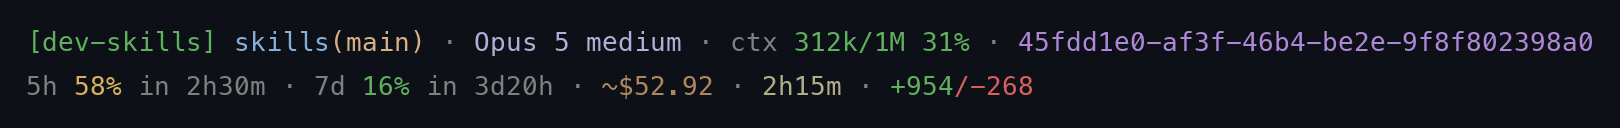
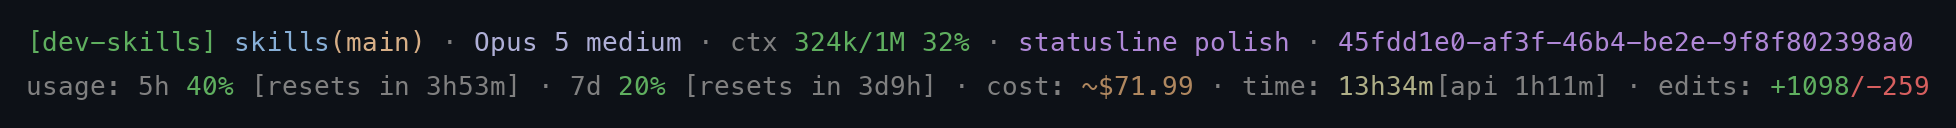
docs: refresh the screenshot, and make regenerating it a command
The image and both alt texts still showed the pre-label line two. Rather than
redoing the ad-hoc render each time the format shifts, scripts/render-statusline.py
now draws it from the script's real output and prints the transcription the alt
text should carry; @REPO@ in its payload becomes the checkout, so the image shows
a real directory and branch.

Also: the segment table listed usage: last while it renders first, one paragraph
still said parenthesised after the brackets landed, and a trailing paragraph
restated the cost row above it.

Changed region(s): [[0.0, 0.2188, 0.9877, 0.4062], [0.0, 0.5938, 0.9877, 0.7812]]

diff --git a/index.html b/index.html
@@ -149,8 +149,8 @@ dev-implement-plan phases → dev-tdd (test-first), dev-e2e-testing, dev-smoke-t
 <section id="statusline">
   <h2>Status line</h2>
   <p class="sub">Repo, model and context on one line; what the session has cost you on the next.</p>
-  <img class="shot" src="docs/statusline.png" alt="The dev-skills status line, two lines. First: [dev-skills] skills(main) · Opus 5 medium · ctx 312k/1M 31% · 45fdd1e0-af3f-46b4-be2e-9f8f802398a0. Second: 5h 58% in 2h30m · 7d 16% in 3d20h · ~$52.92 · 2h15m · +954/-268">
-  <p class="note">Labels survive only where a value is ambiguous, and each percentage shares one traffic light — green under 50%, yellow under 80%, red at 80% and above, in muted hues chosen for distinct colour rather than intensity. The rate-limit segments show how much of each window is spent and when it refills (<code>5h 58% in 2h30m</code>); there is no credit balance in the session payload, so those windows are the only real quota signal, and line two is ordered by urgency so a narrow pane drops the notional cost before them. Segments drop out when the data isn't there yet, so a fresh session shows just the first line — and again when the terminal is too narrow, so neither line ever wraps.</p>
+  <img class="shot" src="docs/statusline.png" alt="The dev-skills status line, two lines. First: [dev-skills] skills(main) · Opus 5 medium · ctx 324k/1M 32% · statusline polish · 45fdd1e0-af3f-46b4-be2e-9f8f802398a0. Second: usage: 5h 40% [resets in 3h53m] · 7d 20% [resets in 3d9h] · cost: ~$71.99 · time: 13h34m[api 1h11m] · edits: +1098/-259">
+  <p class="note">Line two names each group and brackets any figure that qualifies another, and each percentage shares one traffic light — green under 50%, yellow under 80%, red at 80% and above, in muted hues chosen for distinct colour rather than intensity. The rate-limit segments show how much of each window is spent and when it refills (<code>usage: 5h 40% [resets in 3h53m]</code>); there is no credit balance in the session payload, so those windows are the only real quota signal, and line two is ordered by urgency so a narrow pane drops the notional cost before them. Segments drop out when the data isn't there yet, so a fresh session shows just the first line — and again when the terminal is too narrow, so neither line ever wraps.</p>
   <p class="note">A <code>SessionStart</code> hook wires it into <code>settings.json</code> on the first session after install, because plugins can't declare a <code>statusLine</code> themselves. It never overwrites a status line you already had, never replaces a <code>refreshInterval</code> you chose, and if you delete the one it installed it stays gone — each guarantee has a test. Opt out up front with <code>touch ~/.claude/.dev-skills.statusline-optout</code>.</p>
 </section>
 

diff --git a/scripts/render-statusline.py b/scripts/render-statusline.py
@@ -1,0 +1,101 @@
+#!/usr/bin/env python3
+"""Render docs/statusline.png from the status line's real output.
+
+    python3 scripts/render-statusline.py
+
+Reads scripts/statusline-docs.json, pipes it through statusline/statusline.sh, and
+draws the resulting ANSI as a PNG on the site's background colour. Rendered rather
+than screenshotted so the image can be regenerated whenever the format changes —
+a stale screenshot is the failure mode this replaces.
+
+The payload lives in scripts/ rather than statusline/tests/ on purpose: it
+interpolates this checkout's path so the image shows a real directory and branch,
+which makes it deliberately machine-dependent — the opposite of what a golden
+fixture needs.
+
+Update the alt text in README.md and index.html to match; both transcribe the
+image for anyone who cannot see it.
+"""
+import re
+import subprocess
+import sys
+from pathlib import Path
+
+from PIL import Image, ImageDraw, ImageFont
+
+ROOT = Path(__file__).resolve().parent.parent
+PAYLOAD = ROOT / "scripts" / "statusline-docs.json"
+OUT = ROOT / "docs" / "statusline.png"
+FONT = "/System/Library/Fonts/Menlo.ttc"
+
+FG, BG = (230, 237, 243), (13, 17, 23)  # index.html's --text and --bg
+SIZE, PAD, LEAD = 26, 26, 12
+# the clock is pinned so the reset countdowns render identically on every run
+NOW = "1800000000"
+
+
+def rgb(index):
+    """xterm-256 index -> RGB, for the 6x6x6 cube and the greyscale ramp."""
+    if 16 <= index <= 231:
+        index -= 16
+        levels = (0, 95, 135, 175, 215, 255)
+        return levels[index // 36], levels[(index % 36) // 6], levels[index % 6]
+    if 232 <= index <= 255:
+        v = 8 + (index - 232) * 10
+        return v, v, v
+    return FG
+
+
+def runs(line):
+    """Split one ANSI line into (text, colour) runs."""
+    out, colour, pos = [], FG, 0
+    for m in re.finditer(r"\x1b\[([0-9;]*)m", line):
+        if m.start() > pos:
+            out.append((line[pos:m.start()], colour))
+        c = re.match(r"38;5;(\d+)$", m.group(1))
+        colour = rgb(int(c.group(1))) if c else FG
+        pos = m.end()
+    if pos < len(line):
+        out.append((line[pos:], colour))
+    return out
+
+
+def main():
+    if not PAYLOAD.exists():
+        sys.exit(f"missing {PAYLOAD.relative_to(ROOT)}")
+    rendered = subprocess.run(
+        ["/bin/bash", str(ROOT / "statusline" / "statusline.sh")],
+        # @REPO@ becomes this checkout, so the image shows a real directory and branch
+        input=PAYLOAD.read_text().replace("@REPO@", str(ROOT)).encode(),
+        env={"PATH": "/usr/bin:/bin:/usr/local/bin:/opt/homebrew/bin",
+             "STATUSLINE_NOW": NOW, "COLUMNS": "0"},
+        capture_output=True, check=True,
+    ).stdout.decode()
+
+    lines = [runs(l) for l in rendered.rstrip("\n").split("\n")]
+    font = ImageFont.truetype(FONT, SIZE)
+    probe = ImageDraw.Draw(Image.new("RGB", (1, 1)))
+    width = lambda t: probe.textlength(t, font=font)
+    ascent, descent = font.getmetrics()
+    lh = ascent + descent + LEAD
+
+    w = int(max(sum(width(t) for t, _ in ln) for ln in lines)) + PAD * 2
+    h = lh * len(lines) + PAD * 2 - LEAD
+    img = Image.new("RGB", (w, h), BG)
+    draw = ImageDraw.Draw(img)
+    for row, line in enumerate(lines):
+        x = PAD
+        for text, colour in line:
+            draw.text((x, PAD + row * lh), text, font=font, fill=colour)
+            x += width(text)
+    OUT.parent.mkdir(exist_ok=True)
+    img.save(OUT)
+
+    print(f"{OUT.relative_to(ROOT)}  {w}x{h}")
+    print("\nalt text should transcribe:")
+    for line in lines:
+        print("  " + "".join(t for t, _ in line))
+
+
+if __name__ == "__main__":
+    main()

diff --git a/README.md b/README.md
@@ -105,9 +105,9 @@ The plugin ships one slash command under `commands/` — a direct entry point to
 
 ## Status Line
 
-`statusline/statusline.sh` renders two lines under the prompt:
+`statusline/statusline.sh` renders two lines under the prompt — regenerate this image with `python3 scripts/render-statusline.py` after changing the format:
 
-![The dev-skills status line, two lines. First: [dev-skills] skills(main) · Opus 5 medium · ctx 312k/1M 31% · 45fdd1e0-af3f-46b4-be2e-9f8f802398a0. Second: 5h 58% in 2h30m · 7d 16% in 3d20h · ~$52.92 · 2h15m · +954/-268](docs/statusline.png)
+![The dev-skills status line, two lines. First: [dev-skills] skills(main) · Opus 5 medium · ctx 324k/1M 32% · statusline polish · 45fdd1e0-af3f-46b4-be2e-9f8f802398a0. Second: usage: 5h 40% [resets in 3h53m] · 7d 20% [resets in 3d9h] · cost: ~$71.99 · time: 13h34m[api 1h11m] · edits: +1098/-259](docs/statusline.png)
 
 | Segment | Field | Notes |
 | ------- | ----- | ----- |
@@ -119,10 +119,10 @@ The plugin ships one slash command under `commands/` — a direct entry point to
 | `ctx 183k/1M 18%` | `context_window` | Input tokens vs. window size — the same input-only basis Claude Code uses for `used_percentage`, so the fraction and the percentage agree |
 | `statusline polish` | `session_name` | The name set with `--name` / `/rename`, or the AI-generated title. Absent until one exists |
 | `45fdd1e0-af3f-…` | `session_id` | Always shown, after the name — the transcript is `~/.claude/projects/<project>/<session_id>.jsonl` |
-| `cost: ~$71.99` | `cost.total_cost_usd` | The `~` marks it as a client-side estimate at API rates — on a subscription nothing was billed at all. `/clear` resets it. There is no token count beside it because the payload has no cumulative one: `total_input_tokens` is what is in the window right now (already shown as `ctx`) and `total_output_tokens` is only the most recent response's output |
-| `time: 13h34m[api 1h11m]` | `cost.total_duration_ms`, `total_api_duration_ms` | Elapsed wall clock, with the part spent waiting on the model bracketed beside it — tells you whether a long session was inference or reading and typing. A zero trailing component is dropped (`4h`, not `4h0m`), and the parenthesised half is absent when the field is not reported |
-| `edits: +1098/-259` | `cost.total_lines_added/removed` | Additions green, deletions red |
 | `usage: 5h 40% [resets in 3h53m] · 7d 20% [resets in 3d9h]` | `rate_limits` | Claude.ai Pro/Max only, after the first API response. How much of each window is spent and when it refills |
+| `cost: ~$71.99` | `cost.total_cost_usd` | The `~` marks it as a client-side estimate at API rates — on a subscription nothing was billed at all. `/clear` resets it. There is no token count beside it because the payload has no cumulative one: `total_input_tokens` is what is in the window right now (already shown as `ctx`) and `total_output_tokens` is only the most recent response's output |
+| `time: 13h34m[api 1h11m]` | `cost.total_duration_ms`, `total_api_duration_ms` | Elapsed wall clock, with the part spent waiting on the model bracketed beside it — tells you whether a long session was inference or reading and typing. A zero trailing component is dropped (`4h`, not `4h0m`), and the bracketed half is absent when the field is not reported |
+| `edits: +1098/-259` | `cost.total_lines_added/removed` | Additions green, deletions red |
 
 Line two is ordered by urgency rather than convention — segments drop from the right, and on a narrow pane the window that says when you get cut off matters more than a notional cost. Both lines use the same dim `·` separator so they read as one block.
 
@@ -131,8 +131,6 @@ Line two names each group — `usage:`, `cost:`, `time:`, `edits:` — and a fig
 Colour always means "this is a value" — labels and separators stay grey. Values are coloured by kind: blue for the directory, gold for the branch and PR, `146` for session state you did not measure (model, effort), yellow for a non-default mode (`wt`, `fast`), tan for the cost estimate, mauve for the session id — an identifier you copy rather than read. The percentages share one traffic light: green under 50%, yellow under 80%, red at 80% and above, in muted hues rather than full-intensity ones, since the line sits in peripheral vision all day and saturated green/red read as alarms.
 
 Each segment is dropped when its field is absent, so line two disappears entirely on a fresh session.
-
-There is no credit or dollar balance in the session payload — `cost` is a client-side estimate of what the session would cost at API rates, and the rate-limit windows are the only real quota signal Claude Code exposes.
 
 Claude Code plugins cannot set the main `statusLine` declaratively — a plugin's `settings.json` only supports the `agent` and `subagentStatusLine` keys — so a `SessionStart` hook (`hooks/hooks.json` → `statusline/auto-install.sh`) wires it up on the first session after install. It copies the script to `~/.claude/dev-skills.statusline.sh`, points `settings.json` at that stable path, and refreshes the copy on later sessions so plugin upgrades land.
 

diff --git a/CLAUDE.md b/CLAUDE.md
@@ -22,10 +22,14 @@ commands/
   <command-name>.md  # Slash commands (currently: loop — wraps dev-loop)
 hooks/
   hooks.json         # SessionStart hook that wires up the status line
+scripts/
+  validate.py        # the pre-commit gate (see Validation)
+  render-statusline.py  # redraws docs/statusline.png from real output
 statusline/
   statusline.sh      # 2-line status line: repo/model/context + session usage
   auto-install.sh    # the hook body — installs on first session, refreshes after
   install.sh         # manual install/uninstall of the same thing
+  tests/             # <case>.json + <case>.expected pairs, diffed by validate.py
 ```
 
 Plugin `settings.json` only supports the `agent` and `subagentStatusLine` keys, so a plugin
